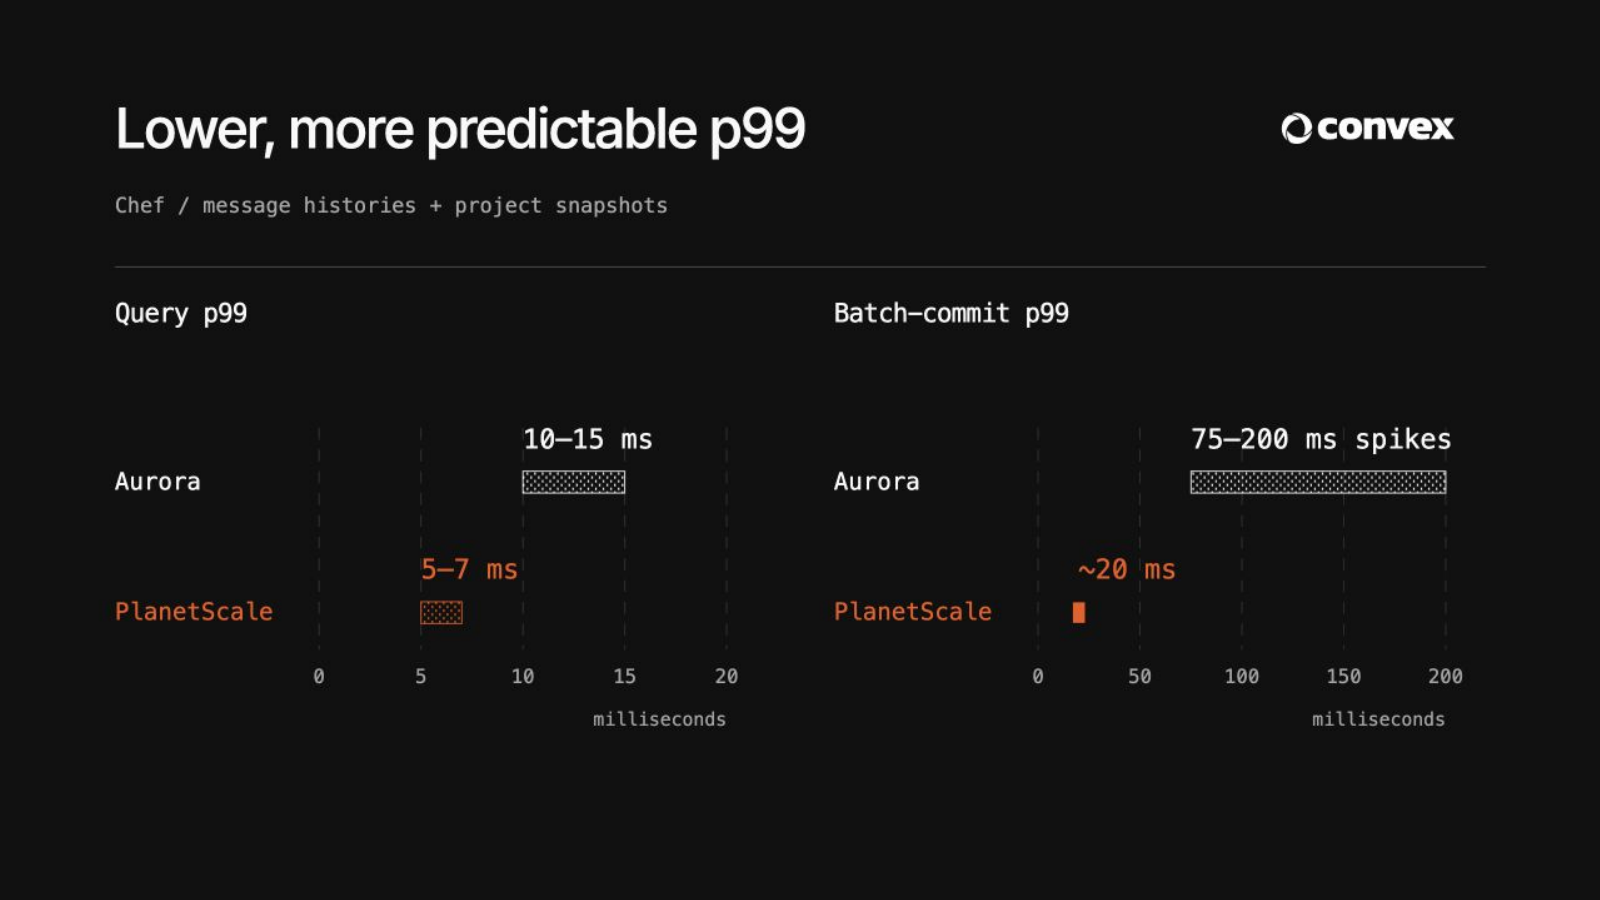
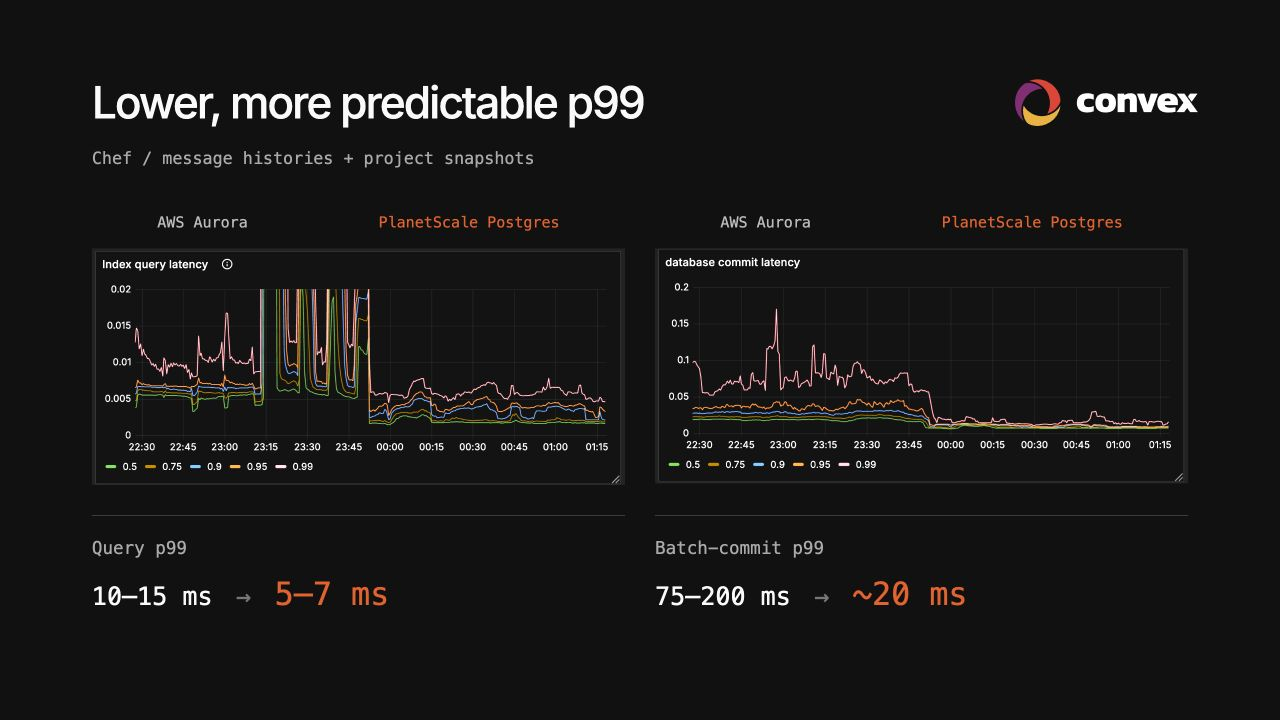
Show original Convex chart images with dark CSS treatment

diff --git a/theme.css b/theme.css
@@ -113,8 +113,18 @@ dialog button{padding:10px 20px;background:#f35815;color:white;border:0;font:15p
 .convex-wordmark{width:210px;height:95px}
 .autumn-logo{width:191px;height:47px}
 .case-context{font:20px var(--mono);color:#aaa;margin-top:15px!important}
-.convex-curves{margin-top:34px}
-.convex-curves svg{width:100%;height:auto}
+.convex-curves{margin-top:52px}
+.convex-original-grid{display:grid;grid-template-columns:1fr 1fr;gap:36px}
+.source-provider-row{display:flex;justify-content:space-around;font:18px var(--mono);margin-bottom:21px;color:#bcbcbc}
+.source-provider-row span:last-child{color:var(--orange)}
+.convex-source-frame{position:relative;aspect-ratio:1488/660;overflow:hidden}
+.convex-source-frame img{display:block;width:100%;height:auto;filter:invert(.93) hue-rotate(180deg) brightness(1.7) contrast(1.12)}
+.commit-source img{transform:translateY(-50.752%)}
+.convex-result{margin-top:36px;padding-top:24px;border-top:1px solid #444}
+.convex-result>span{font:21px var(--mono);color:#aaa}
+.convex-result>div{margin-top:21px;font:30px var(--mono);white-space:nowrap}
+.convex-result i{font-style:normal;color:#777;margin:0 10px}
+.convex-result strong{color:var(--orange);font-size:38px}
 .autumn-evidence{display:grid;grid-template-columns:940px 1fr;gap:66px;margin-top:38px}
 .autumn-evidence svg{width:100%;height:auto}
 .autumn-migration{border-left:1px solid #555;padding-left:38px;padding-top:62px}

diff --git a/build_content.py b/build_content.py
@@ -149,35 +149,9 @@ for (x,y),(_,_,lab,val) in zip(coords,points):
 b+=txt(60,365,'QUERIES / SECOND',15,'#b9a762',mono=True)+txt(756,365,'LOG SCALES',13,'#84784c','end',mono=True)
 scale=svg(820,380,b,'Neki read-only point-select benchmark: 5 shards delivered 999,624 QPS; 50 shards delivered 9,923,900 QPS; 512 shards delivered 118,538,803 QPS. Both axes use logarithmic scales.',mark='scale-arrow',color=YELLOW)
 
-# Convex's published p99 curves, digitized from the original customer screenshot.
-# Source pixels, axes, and clipping are retained in qa/convex-p99-digitized.json.
-convex_source=json.loads((R/'qa/convex-p99-digitized.json').read_text())
-b=txt(50,24,'AWS Aurora',20,WHITE)+txt(517,24,'PlanetScale Postgres',20,ORANGE)
-b+=path('M498.25 11V481','#777777',1,True)
-for i,series in enumerate(convex_source['series']):
-    top=83+i*248; height=150
-    b+=txt(0,top-23,'Query p99 / ms' if i==0 else 'Batch-commit p99 / ms',23,WHITE)
-    for value in [0,series['max_ms']/2,series['max_ms']]:
-        y=top+height-value/series['max_ms']*height
-        b+=path(f'M50 {y}H952','#383838',1)+txt(35,y+6,str(int(value)),17,GRAY,'end')
-    # Same screenshot time coordinate for both charts; migration step at about 23:55.
-    for lo,hi,col in [(0,773,WHITE),(773,2000,ORANGE)]:
-        d=''; active=False
-        for x,y in series['points']:
-            if not lo<=x<=hi or y is None:
-                active=False;continue
-            px=50+(x-121)/(1433-121)*902
-            py=top+(y-series['top'])/(series['bottom']-series['top'])*height
-            d+=('L' if active else 'M')+f'{px:.2f} {py:.2f} '
-            active=True
-        b+=path(d,col,1.7)
-    b+=txt(1000,top+18,'10–15 ms' if i==0 else '75–200 ms',29,WHITE)
-    b+=txt(1000,top+57,'↓',26,GRAY)
-    b+=txt(1000,top+112,'5–7 ms' if i==0 else '~20 ms',42,ORANGE)
-    if i==1:
-        for x,label in [(140,'22:30'),(373,'23:00'),(606,'23:30'),(839,'00:00'),(1072,'00:30'),(1305,'01:00')]:
-            b+=txt(50+(x-121)/1312*902,top+height+32,label,16,GRAY,'middle')
-convex_plot=svg(1250,520,b,'Convex Chef published p99 latency before and after migration from AWS Aurora to PlanetScale Postgres. Two time-series curves reconstructed from the original chart: index queries and batch commits. Article reports query p99 from 10–15 to 5–7 milliseconds, and commit spikes of 75–200 to around 20 milliseconds.',mark='convex-p99')
+# Display the original customer charts without rebuilding or modifying their pixels.
+# CSS viewports show the two panels from the unchanged source screenshot.
+convex_plot = '''<div class="convex-original-grid"><div><div class="source-provider-row"><span>AWS Aurora</span><span>PlanetScale Postgres</span></div><div class="convex-source-frame"><img src="assets/convex-original-results.png" alt="Original Convex index query latency chart. All five percentile curves, original axes and legend are preserved; values are in seconds."></div><div class="convex-result"><span>Query p99</span><div>10–15 ms <i>→</i> <strong>5–7 ms</strong></div></div></div><div><div class="source-provider-row"><span>AWS Aurora</span><span>PlanetScale Postgres</span></div><div class="convex-source-frame commit-source"><img src="assets/convex-original-results.png" alt="Original Convex database commit latency chart. All five percentile curves, original axes and legend are preserved; values are in seconds."></div><div class="convex-result"><span>Batch-commit p99</span><div>75–200 ms <i>→</i> <strong>~20 ms</strong></div></div></div></div>'''
 
 # Autumn reports approximate latency, not a percentile or a sampled time series.
 b=txt(0,27,'Query latency',25,WHITE)
@@ -201,7 +175,7 @@ slides=[
  dict(id='neki',label='Neki: Horizontal Scaling for Postgres',theme='neki',html=f'''<div class="neki-heading"><h2>Neki: Horizontal Scaling for Postgres</h2><div class="neki-lockup"><img src="assets/neki-cat.svg" alt="Neki"></div></div><div class="neki-topology">{neki}</div>''',notes="1:15. “Neki is our sharded Postgres architecture. Every shard is real Postgres, with routing and operations managed as one database.” Walk from the application to the router, then one shard group, then the control plane. Sidecars pool connections; shard primaries and replicas carry data. The diagram represents replicated HA shard groups, not the primary-only benchmark on the next slide. Say that Neki is available in Platform Preview as of the verified documentation on 27 September 2026; it is not covered by an SLA. The public site's “now available” wording does not mean general availability. Cross-shard transactions remain listed as coming soon. Evaluate shard keys, query/transaction compatibility and the transition from the current database with the team. Do not imply an automatic in-place conversion from ordinary PlanetScale Postgres. The immediate sale remains hosted Postgres on Metal. Transition: “The benchmark demonstrates how far this architecture can scale for a defined workload.” Sources: https://neki.dev/ ; https://planetscale.com/docs/neki ; https://planetscale.com/blog/the-architecture-of-neki ."),
  dict(id='neki-scale',label='Neki: 118.5M queries per second',theme='neki neki-scale',html=f'''<div class="neki-heading"><h2><span class="yellow">118.5M</span> queries / second</h2><span class="neki-wordmark">[ NEKI ]</span></div><div class="scale-layout"><div><div class="scale-chart">{scale}</div><p class="neki-workload">Read-only point selects / Primary-only shards</p></div><div class="scale-metrics"><div><strong>1.22 <span>PiB</span></strong><p>data</p></div><div><strong>512</strong><p>shards</p></div><div><strong>6.06 <span>ms</span></strong><p>router p99</p></div></div></div>''',notes="1:00. “The published Neki run sustained 118.5 million queries per second across 512 shards over a 1.22 PiB dataset.” Follow the 5-, 50-, and 512-shard series and stop. Exact QPS: 999,624; 9,923,900; 118,538,803. Both axes are logarithmic. Workload: read-only, one-row primary-key point selects sent to a single shard. The measured configuration had 512 primary-only shards and 480 routers, without replicas or a failover event, for 16 minutes. It does not establish write performance or HA behavior. The 6.06 ms p99 is at the router; client p99 was 13.95 ms. These metrics do not share the TPCC workload or Vitalize workload and should not be compared on a common chart. Transition: “For your team, the next step is assessing today's Postgres workload and planning the migration.” Source: https://planetscale.com/blog/118-million-queries-per-second-on-neki ."),
  dict(id='migration',label='Your migration with our infrastructure team',theme='migration',html=f'''<h2>Migrate with our infrastructure team</h2><div class="migration-diagram">{migration}</div><div class="migration-steps"><div><span>01</span><strong>Assess</strong><p>Schema, extensions, workload</p></div><div><span>02</span><strong>Rehearse</strong><p>Replication, p95 / p99, recovery</p></div><div><span>03</span><strong>Cut over</strong><p>Validate, switch, monitor</p></div></div><div class="migration-close"><strong>Technical discovery + migration assessment</strong><span>Your team + our database engineers</span></div>''',notes="2:30. “We start with your existing Postgres, assess the dependencies, and rehearse the move with your team.” The source serves traffic during the initial copy and change replication. Validate data and critical queries before agreeing on a cutover. Assess schemas, extensions, write rate, permissions, auth dependencies, connection patterns, recovery requirements, and networking. Compare a representative workload's p95/p99 and throughput. The final synchronization, application connection switch, downtime, and rollback strategy depend on source configuration and any target-side writes. This is a workflow, not a claim that all providers support the same automated importer or universal zero downtime. Close: “Can we schedule a technical discovery with your database and infrastructure leads to scope the migration assessment?” Establish compatibility questions, target deployment, success criteria, and the work needed for a migration plan. If relevant, Autumn reports a two-day migration with seconds of cutover downtime and direct help from PlanetScale; that is an example, not a delivery promise. Source: https://useautumn.com/blog/migrating-to-planetscale ; other references in docs/customer-case-studies.md. Core pitch time: 11 minutes 30 seconds, plus short buyer exchanges."),
- dict(id='convex',label='Convex: lower, more predictable p99',theme='customer-case convex',html=f'''<div class="case-heading"><h2>Lower, more predictable p99</h2><div class="convex-brand" aria-label="Convex"><img class="convex-symbol" src="assets/convex-symbol-color.svg" alt=""><img class="convex-wordmark" src="assets/convex-wordmark-white.svg" alt="Convex"></div></div><p class="case-context">Chef / message histories + project snapshots</p><div class="convex-curves">{convex_plot}</div>''',notes="1:15. Convex provides backend infrastructure for developers. Its Chef product stores message histories and project snapshots in a Convex backend. The team moved that workload from AWS Aurora to PlanetScale for Postgres. Query p99 moved from a noisy 10–15 ms to a steadier 5–7 ms; batch-commit p99 had spiked between 75 and 200 ms and subsequently stayed around 20 ms. The curves are a pixel-resolution reconstruction of the red p99 trace in the original published screenshot, not raw telemetry. No missing samples are invented; the source clips query peaks above 20 ms. The provider boundary follows the visible step near 23:55, not an independently verified cutover timestamp. The larger numeric callouts use the article’s reported ranges; they are not computed from the digitized curves. Each plot has its own vertical scale. Preserve the approximate qualifier on 20 ms. Do not imply that all Convex workloads achieved these results, identify the prior Aurora engine without evidence, or claim a controlled hardware comparison. The article discusses Metal as the motivation but does not specify the measured cluster tier; label the destination PlanetScale for Postgres. Gong structure: infrastructure buyer's need, one named production workload, the change, and the measured outcome. Ask which tail-latency path matters most to the prospect. Source: https://news.convex.dev/powered-by-planetscale-for-postgres/ . This candidate slide is appended for review; the original Vitalize slide remains."),
+ dict(id='convex',label='Convex: lower, more predictable p99',theme='customer-case convex',html=f'''<div class="case-heading"><h2>Lower, more predictable p99</h2><div class="convex-brand" aria-label="Convex"><img class="convex-symbol" src="assets/convex-symbol-color.svg" alt=""><img class="convex-wordmark" src="assets/convex-wordmark-white.svg" alt="Convex"></div></div><p class="case-context">Chef / message histories + project snapshots</p><div class="convex-curves">{convex_plot}</div>''',notes="1:15. Convex provides backend infrastructure for developers. Its Chef product stores message histories and project snapshots in a Convex backend. The team moved that workload from AWS Aurora to PlanetScale for Postgres. Query p99 moved from a noisy 10–15 ms to a steadier 5–7 ms; batch-commit p99 had spiked between 75 and 200 ms and subsequently stayed around 20 ms. Both panels display the unchanged original customer screenshot, cropped only at the panel boundary through CSS. A CSS invert/hue-rotation filter adapts its light background to dark mode. All percentile lines, original axis values, and legends are preserved. The source chart vertical axes are in seconds; the numeric p99 summaries below are in milliseconds and use the article’s explicit reported ranges. The original query chart clips peaks above 0.02 seconds. Provider labels indicate the before/after portions around the visible step near 23:55, not a separately verified cutover timestamp. Each chart has its own vertical scale. Preserve the approximate qualifier on 20 ms. Do not imply that all Convex workloads achieved these results, identify the prior Aurora engine without evidence, or claim a controlled hardware comparison. The article discusses Metal as the motivation but does not specify the measured cluster tier; label the destination PlanetScale for Postgres. Gong structure: infrastructure buyer's need, one named production workload, the change, and the measured outcome. Ask which tail-latency path matters most to the prospect. Source: https://news.convex.dev/powered-by-planetscale-for-postgres/ . This candidate slide is appended for review; the original Vitalize slide remains."),
  dict(id='autumn',label='Autumn: two days to PlanetScale Metal',theme='customer-case autumn',html=f'''<div class="case-heading"><h2>Two days to PlanetScale Metal</h2><img class="autumn-logo" src="assets/autumn.svg" alt="Autumn"></div><p class="case-context">Billing infrastructure / real-time access + credit checks</p><div class="autumn-evidence"><div>{autumn_plot}</div><div class="autumn-migration"><div class="migration-number"><strong>2<span> days</span></strong><p>Migration</p></div><div class="cutover-number"><strong>Seconds</strong><p>Cutover downtime</p></div><div class="migration-assist"><span class="assist-node"></span><p>PlanetScale<br>migration team</p></div></div></div>''',notes="1:15. Autumn provides billing infrastructure for AI companies, including real-time access and credit checks in the request path. Its previous provider had connection-pooling issues and inconsistent latency. The team expected migration to take weeks; it reports completing it in two days with seconds of cutover downtime. PlanetScale's team helped with replication and recommended its pgcopydb fork. General query latency moved from approximately 100 ms to consistently below 10 ms after the move to PlanetScale Metal. These values have no published percentile; do not call them p95 or p99. The previous provider is unnamed. A separate later support engagement involved query/index changes and a p99 improvement from around 200 ms to under 50 ms; that separate optimization is intentionally excluded from this slide. The white bar uses the approximate 100 ms baseline; the dashed orange bar depicts an upper bound of 10 ms, not a measured 10 ms value. Autumn’s original Insights screenshot is a later post-migration view, so it is not presented as the migration before/after comparison. The official current Autumn logo is monochrome; no invented color version is used. Timings are Autumn's experience, not a migration promise. Gong structure: business-critical workload, concerns about switching, assisted migration, observed result. Transition to technical discovery and migration assessment: assess the prospect's dependencies, workload, and cutover needs. Source: https://useautumn.com/blog/migrating-to-planetscale . This candidate slide is appended for review; the existing migration closing slide remains."),
 ]
 (R/'slides.js').write_text('window.PITCH_BRAND = '+json.dumps((R/'assets/planetscale-white.svg').read_text())+';\nwindow.PITCH_SLIDES = '+json.dumps(slides,ensure_ascii=False,indent=2)+';\n')

diff --git a/package_deck.py b/package_deck.py
@@ -25,7 +25,7 @@ for filename in ['vendor/reveal.js', 'vendor/notes.js', 'slides.js', 'app.js']:
         dynamic = "assets/planetscale-${light?'black':'white'}.svg"
         replacement = "${light ? '" + data_uri('assets/planetscale-black.svg') + "' : '" + data_uri('assets/planetscale-white.svg') + "'}"
         code = code.replace(dynamic, replacement)
-    for image in ['postgresql.svg', 'planetscale-black.svg', 'planetscale-white.svg', 'cash-app.svg', 'neki-cat.svg', 'vitalize.svg', 'planetscale-white.png', 'vitalize-query-latency.png', 'convex-white.svg', 'autumn.svg', 'convex-symbol-color.svg', 'convex-wordmark-white.svg']:
+    for image in ['postgresql.svg', 'planetscale-black.svg', 'planetscale-white.svg', 'cash-app.svg', 'neki-cat.svg', 'vitalize.svg', 'planetscale-white.png', 'vitalize-query-latency.png', 'convex-white.svg', 'autumn.svg', 'convex-symbol-color.svg', 'convex-wordmark-white.svg', 'convex-original-results.png']:
         code = code.replace('assets/' + image, data_uri('assets/' + image))
     code = re.sub(r'</script', r'<\\/script', code, flags=re.I)
     html = html.replace(f'<script src="{filename}"></script>', '<script>' + code + '</script>')

diff --git a/docs/customer-case-studies.md b/docs/customer-case-studies.md
@@ -90,3 +90,8 @@ Original Autumn chart: https://useautumn.com/images/blog/planetscale-insights.pn
 Brand assets: Convex’s unmodified color symbol and white wordmark come from https://www.convex.dev/resources/logos.zip . Autumn’s current official logo at https://useautumn.com/images/navbar/autumnlogo.svg and official icon at https://useautumn.com/icon-192.png are monochrome. Keep the official logo rather than inventing a colored version.
 
 Both stories remain candidate slides 8–9, with Vitalize and the original seven slide records preserved.
+
+
+### Original Convex chart panels replace the reconstruction
+
+The current slide now displays `assets/convex-original-results.png` directly in two CSS clipping viewports, one per original chart. The source PNG remains unchanged. `filter: invert(.93) hue-rotate(180deg) brightness(1.7) contrast(1.12)` changes only browser presentation colors to fit the dark deck. All five percentile lines, legends, ticks, and chart titles remain as published. Chart axes remain in seconds; the separate p99 summaries are in milliseconds. The digitized JSON/script above are historical research and no longer supply the slide.
